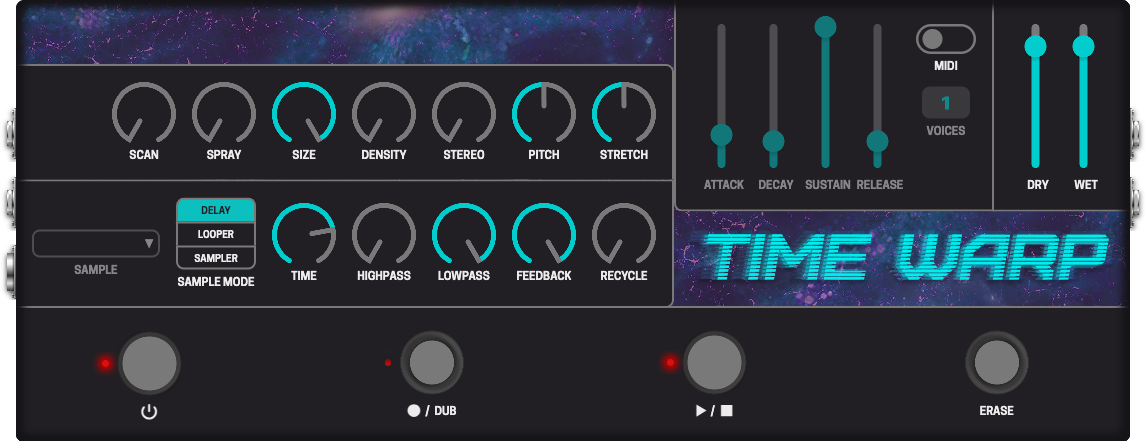
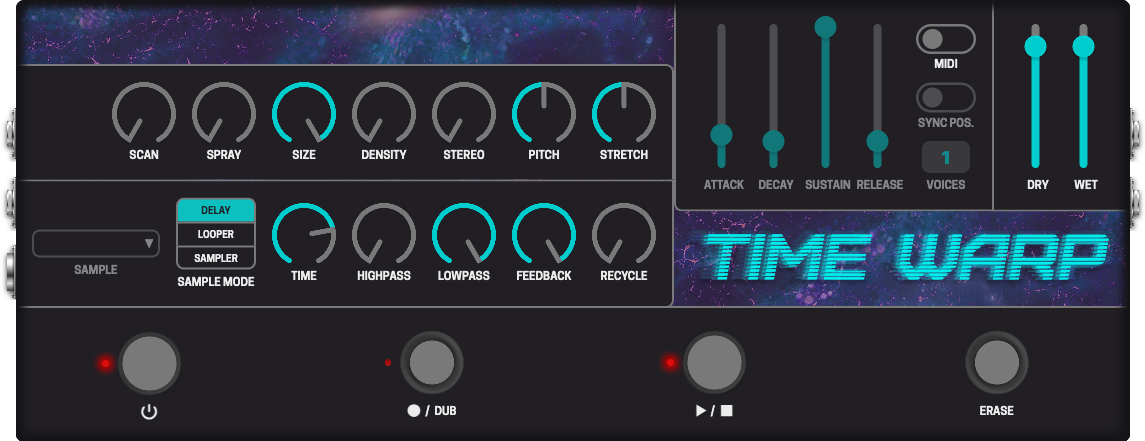
Add Sync Position to lv2 UI

Changed region(s): [[0.7948, 0.1769, 0.8559, 0.4422]]

diff --git a/lv2/dm-TimeWarp.lv2/modgui/javascript.js b/lv2/dm-TimeWarp.lv2/modgui/javascript.js
@@ -51,14 +51,15 @@ function(event) {
           erase.removeClass("on");
         }
         break;
-      case "midi_enabled":
+      case "midi_enabled": {
         const midi = event.icon.find("[mod-port-symbol=midi_enabled]");
         const attack = event.icon.find("[mod-port-symbol=attack]").parent();
         const decay = event.icon.find("[mod-port-symbol=decay]").parent();
         const sustain = event.icon.find("[mod-port-symbol=sustain]").parent();
         const release = event.icon.find("[mod-port-symbol=release]").parent();
+        const sync_position = event.icon.find("[mod-port-symbol=sync_position]").parent();
         const voices = event.icon.find("[mod-port-symbol=voices]").parent();
-        const midi_controls = [attack, decay, sustain, release, voices];
+        const midi_controls = [attack, decay, sustain, release, sync_position, voices];
         if(value == 1) {
           midi.addClass("on");
         } else {
@@ -71,6 +72,15 @@ function(event) {
             midi_control.addClass("disabled");
           }
         })
+        break;
+      }
+      case "sync_position":
+        const sync_position = event.icon.find("[mod-port-symbol=sync_position]");
+        if(value == 1) {
+          sync_position.addClass("on");
+        } else {
+          sync_position.removeClass("on");
+        }
         break;
       default:
         break;

diff --git a/lv2/dm-TimeWarp.lv2/modgui/icon-dm-timewarp.html b/lv2/dm-TimeWarp.lv2/modgui/icon-dm-timewarp.html
@@ -218,6 +218,16 @@
               </div>
               <div class="mod-param-title">MIDI</div>
             </div>
+            <div class="mod-switch">
+              <div
+                class="mod-switch-image"
+                mod-role="input-control-port"
+                mod-port-symbol="sync_position"
+              >
+                <div class="circle"></div>
+              </div>
+              <div class="mod-param-title">SYNC POS.</div>
+            </div>
             <div class="mod-number-input">
               <div
                 class="mod-number-input-image"

diff --git a/lv2/dm-TimeWarp.lv2/modgui/stylesheet-dm-timewarp.css b/lv2/dm-TimeWarp.lv2/modgui/stylesheet-dm-timewarp.css
@@ -22,7 +22,7 @@
 .mod-pedal{{{cns}}} .midi-settings {
     display: flex;
     flex-direction: column;
-    gap: 12px;
+    justify-content: space-between;
     margin: 8px 0px 0px -8px;
 }
 
@@ -256,7 +256,7 @@
     border-radius: 50%;
 }
 .mod-pedal{{{cns}}} .mod-switch .mod-param-title {
-    margin-top: 4px;
+    margin-top: 2px;
 }
 
 /* = NUMBER INPUT
